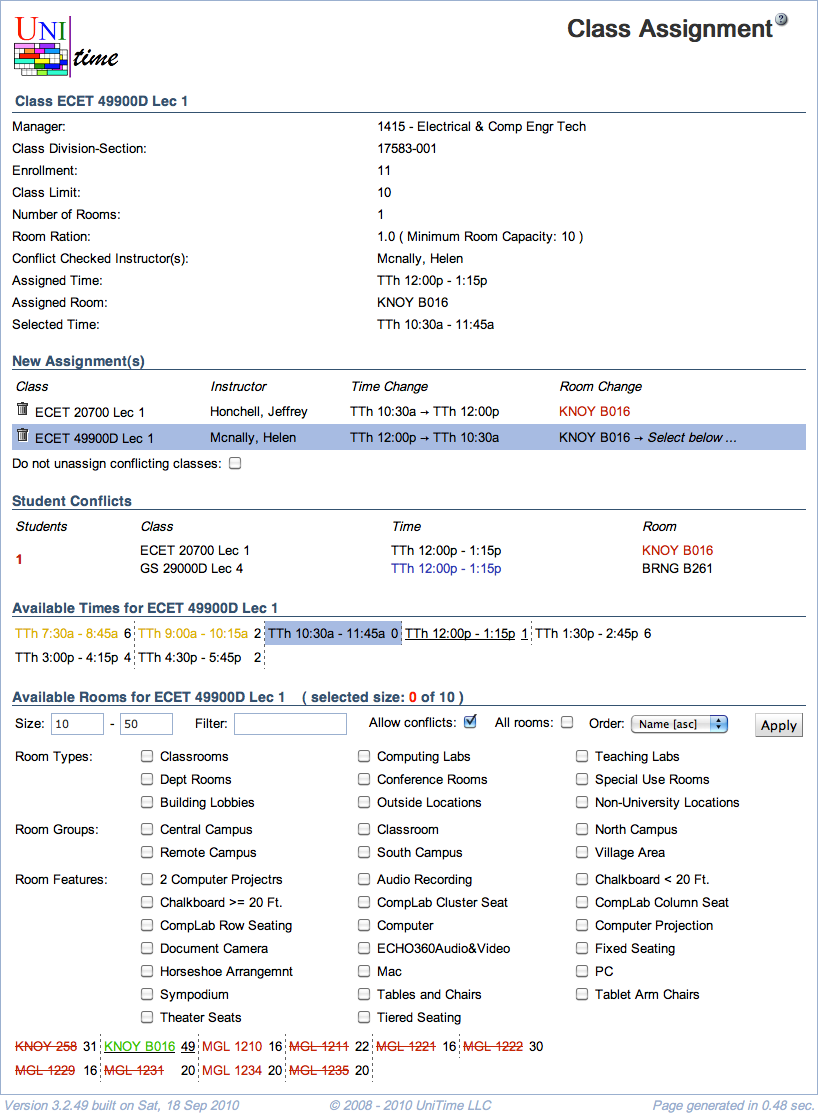
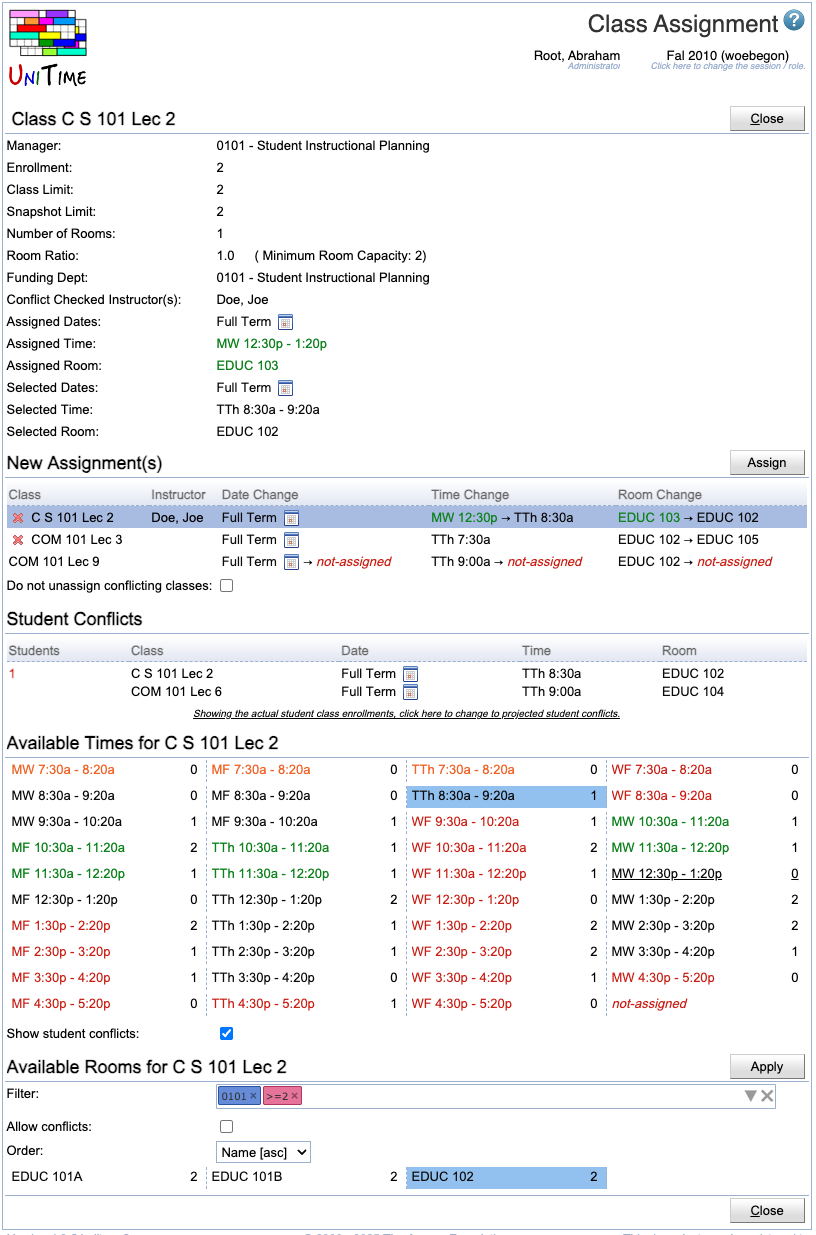
Class Assignment
- new screenshots, new fields, text cleanup

Changed region(s): [[0.0, 0.0, 1.0, 1.0], [0.6127, 0.1828, 0.674, 0.2133]]

diff --git a/class-assignment.md b/class-assignment.md
@@ -6,7 +6,7 @@ title: Class Assignment
 
 ## Screen Description
 
-The Class Assignment screen provides interface for making changes to the current time and room assignment of a class. The changes can be made here  when no timetable is loaded (as opposed to the screens in the Solver section) since this screen only works with available times/rooms and does not provide suggestions that would include suggested changes of the assignment of other classes. The screen is accessible from the [Class Detail](class-detail) screen in case the department for this class has a committed solution (and no other solution is selected or loaded into the solver).
+The Class Assignment screen provides an interface for making changes to the current time and room assignment of a class. The changes can be made here when no timetable is loaded (as opposed to the screens in the Solver section) since this screen only works with available times/rooms and does not provide suggestions that would include suggested changes to the assignment of other classes. The screen is accessible from the [Class Detail](class-detail) screen in case the department for this class has a committed solution (and no other solution is selected or loaded into the solver).
 
 ![Class Assignment](images/class-assignment-1.png){:class='screenshot'}
 
@@ -15,122 +15,141 @@ The Class Assignment screen provides interface for making changes to the current
 The first section of the screen provides an overview of the class-related information.
 
 * **Manager**
-	* Manager responsible for timetabling this class
-	* Editable in the [Multiple Class Setup](multiple-class-setup) screen
+    * Manager responsible for timetabling this class
+    * Editable in the [Multiple Class Setup](multiple-class-setup) screen
 
 * **Enrollment**
-	* Number of expected students
+    * Number of expected students
 
 * **Class Limit**
-	* Number of students that should be able to register for a given class
-	* Editable in the [Multiple Class Setup](multiple-class-setup) screen
+    * Number of students that should be able to register for a given class
+    * Editable in the [Multiple Class Setup](multiple-class-setup) screen
+
+* **Snapshot Limit**
+    * The class limit at the time the [Limit and Projection Snapshot](limit-and-projection-snapshot) was taken.
 
 * **Number Of Rooms**
-	* Number of rooms needed for a class (usually one)
-	* Editable in the [Multiple Class Setup](multiple-class-setup) screen
+    * Number of rooms needed for a class (usually one)
+    * Editable in the [Multiple Class Setup](multiple-class-setup) screen
 
 * **Room Ratio**
-	* The ratio of the required room size to the class limit
-		* Room Ratio = Room Size / Class Limit
-	* In almost all cases, this should be one
-	* Some exceptions to the norm
-		* You need a room for fewer students than the class limit (Room Ratio is less than one)
-		* You need a room for a class with zero limit. In this case, Room Ratio needs to contain the required room size
-	* In parenthesis after the room ratio, you can see the minimum room capacity required for this class (for Class Limit <> 0, it is calculated as Room Size = Room Ratio * Class Limit; if Class Limit = 0, then Room Size = Room Ratio)
-	* Editable in the [Multiple Class Setup](multiple-class-setup) screen
+    * The ratio of the required room size to the class limit
+        * Room Ratio = Room Size / Class Limit
+    * In almost all cases, this should be one
+    * Some exceptions to the norm
+        * You need a room for fewer students than the class limit (Room Ratio is less than one)
+        * You need a room for a class with zero limit. In this case, Room Ratio needs to contain the required room size
+    * In parenthesis after the room ratio, you can see the minimum room capacity required for this class (for Class Limit <> 0, it is calculated as Room Size = Room Ratio * Class Limit; if Class Limit = 0, then Room Size = Room Ratio)
+    * Editable in the [Multiple Class Setup](multiple-class-setup) screen
+
+* **Attendance**
+    * When there are two or more rooms required for the class
+    * **Split Attendance** means that students are expected to split between the two (or more) rooms. That is the total capacity of the assigned room &times; the room ratio must be equal to or greater than the class limit.
+    * **Alternative Attendance** means that all students are expected to be able to fit in any of the assigned rooms. That is, the room capacity of any assigned room &times; the room ratio must be equal to or greater than the class limit.
+    * Editable in the [Multiple Class Setup](multiple-class-setup) screen
+
+* **Funding Dept**
+    * The department providing funding for this class.
+    * This field is not visible by default.  To enable this field, the `unitime.courses.funding_departments_enabled` application property must be set to `true`.
+    * Editable in the [Multiple Class Setup](multiple-class-setup) screen
 
 * **Date Pattern**
-	* Days/weeks throughout the semester during which this class will be taught
-	* You can click on the icon of the calendar to see which dates belong to the selected date pattern
-	* Editable in the [Edit Class](edit-class) screen
+    * Days/weeks throughout the semester during which this class will be taught
+    * You can click on the icon of the calendar to see which dates belong to the selected date pattern
+    * Editable in the [Edit Class](edit-class) screen
 
 * **Conflict Checked Instructor(s)**
-	* Names of instructors for whom conflicts should be avoided (such as teaching two classes in different rooms at the same time)
+    * Names of instructors for whom conflicts should be avoided (such as teaching two classes in different rooms at the same time)
+
+* **Assigned Dates**
+    * Date pattern assigned in the current committed timetable
 
 * **Assigned Time**
-	* Time assigned in the current committed timetable
+    * Time assigned in the current committed timetable
 
 * **Assigned Room**
-	* Room assigned in the current committed timetable
+    * Room assigned in the current committed timetable
+
+* **Selected Dates**
+    * Date pattern selected in the Class Assignment screen
 
 * **Selected Time**
-	* Time selected in the Class Assignment screen
+    * Time selected in the Class Assignment screen
 
 * **Selected Room**
-	* Room selected in the Class Assignment screen
+    * Room selected in the Class Assignment screen
 
 ## New Assignment(s)
 
-A list of draft assignments that have been made through this screen. The new assignments are not executed until the **Assign** button is clicked. To remove an assignment from the list of new assignments, click on the **trash bin** at the beginning of the line.
+A list of draft assignments that have been made through this screen. The new assignments are not executed until the **Assign** button is clicked. To remove an assignment from the list of new assignments, click on the ![Delete](images/icon-delete.png) icon at the beginning of the line.
 
 * **Class**
-	* Class for which the assignment is about to change
-
+    * Class for which the assignment is about to change
 * **Instructor**
-	* Instructor for the class
-
+    * Instructor for the class
+* **Date Change**
+    * Self-explanatory
 * **Time Change**
-	* Self-explanatory
-
+    * Self-explanatory
 * **Room Change**
-	* Self-explanatory
+    * Self-explanatory
 
-* **Do not unassign conflicting classes**
-	* If checked, the conflicting classes stay in the times and rooms where they were and all conflicts need to be resolved manually
+**Do not unassign conflicting classes**
+* If checked, the conflicting classes stay in the times and rooms where they were, and all conflicts need to be resolved manually
+
+When online student scheduling is enabled, a warning ![Warning](images/icon-error.png) icon next to the class name indicates that the class cannot be modified because the offering is locked. Click the icon to unlock the offering first.
 
 ## Student Conflicts
 
 A list of student conflicts caused by new assignments.
 
 * **Students**
-	* Number of students for which a given conflict has occurred
-
+    * Number of students for which a given conflict has occurred
 * **Class**
-	* Classes involved in a conflict
-
+    * Classes involved in a conflict
+* **Date**
+    * Date patterns of classes involved in a conflict (the time from "new assignments" is taken if applicable)
 * **Time**
-	* Times of classes involved in a conflict (the time from "new assignments" is taken if applicable)
-
+    * Times of classes involved in a conflict (the time from "new assignments" is taken if applicable)
 * **Room**
-	* Rooms of classes involved in a conflict (the room from "new assignments" is taken if applicable)
+    * Rooms of classes involved in a conflict (the room from "new assignments" is taken if applicable)
+
+By default, when students are already enrolled, the table displays conflicts based on the current student class enrollments. Otherwise, it would show conflicts based on the student sectioning of the saved &amp; committed solution. The current display is indicated by the text at the bottom of the table; clicking the text will switch between the two options:
+* *Showing the actual student class enrollments, click here to change to projected student conflicts.*
+* *Showing projected student conflicts, click here to change to the actual class enrollments.*
+
+## Available Dates
+
+When the class is using a date pattern of the *Pattern Set* type (there is a choice of a date pattern, e.g., a week selection for a *1x* date pattern), one of the available date patterns can be selected in this table.
+
+![Class Assignment](images/class-assignment-3.png){:class='screenshot'}
 
 ## Available Times
 
-A list of times available for the class that meet the restrictions on required time patterns. Time preferences are color coded in the text color of the times. To select a new time assignment for a class, click on the time.
+A list of times available for the class that meet the restrictions on required time patterns. Time preferences are color-coded in the text color of the times. To select a new time assignment for a class, click on the time. Select *not-assigned*{:style='color:red;'} to unassign the class.
+
+When **Show student conflicts** is checked, the number following the time indicates how many of the students currently enrolled in the class would have a time conflict if the class is placed at the given time.
 
 ## Available Rooms
 
-A list of available rooms for the class. This section is displayed only when time for a class has been selected. "( selected size: X of Y )" next to the section header means that the rooms selected so far have a total of X seats available while the minimum required room capacity is Y.
-
-* **Size**
-	* Only rooms with room capacity in this range will be displayed
+A list of available rooms for the class. This section is displayed only when the time for a class has been selected.
 
 * **Filter**
-	* Enter e.g. a building abbreviation to see only available rooms in a given building
-	* Semicolon can be used as logical or. For instance, **a,b;c** will display all rooms containing both **a** and **b** in their names or containing **c** in their names.
-
+    * Only rooms meeting the [Room Filter](events-room-filter) are displayed
+    * By default, the filter is prepopulated with the minimal room size (based on the class limit and the room ratio), and the managing department of the class
 * **Allow conflicts**
-	* Include rooms that are already used for an examination
-	* Such rooms are displayed in red
-	* If such room is selected, the New Assignment(s) section of this screen will have a new line with the examination that got unassigned (you can click on that line to find time/room assignment for that examination)
-
+    * Include rooms that are already being used
+    * Such rooms are displayed in <span>red and stroked through</span>{:style='color:red;text-decoration:line-through;'}
+    * The conflicting class is listed at the bottom of the mouse-over dialog
 * **All rooms**
-	* Allow also rooms from other departments (ignore room sharing)
-
+    * Allow also rooms from other departments (ignore room sharing)
 * **Order**
-	* Select order of the rooms displayed in this section
-
-* **Room Types**
-	* Limit displayed rooms by room type
-
-* **Room Groups**
-	* Limit displayed rooms by room group
-
-* **Room Features**
-	* Limit displayed rooms by room feature
+    * Select the order of the rooms displayed in this section
 
 Click **Apply** to apply changes to the list of rooms.
 
 Click on a room from the list of available rooms to tentatively assign it to the class (and add the assignment to the New Assignment(s) section where it can be confirmed or removed).
 
+When multiple rooms are required, click on all the rooms that are to be assigned to the class. The *(selected size: X of Y)* next to the section header indicates that the rooms selected so far have a total of X seats available while the minimum required room capacity is Y.
 
+![Class Assignment](images/class-assignment-2.png){:class='screenshot'}

diff --git a/university-timetabling-application.md b/university-timetabling-application.md
@@ -26,7 +26,7 @@ title: UniTime Online Help
 		* [Edit Scheduling Subpart](edit-scheduling-subpart)
 	* [Class Detail](class-detail)
 		* [Edit Class](edit-class)
-* [Class Assignment](class-assignment)
+		* [Class Assignment](class-assignment)
 * [Classes](classes)
 * [Curricula](curricula)
 	* [Curriculum Detail](curriculum-detail)
@@ -43,10 +43,10 @@ title: UniTime Online Help
 		* [Instructor Assignment Preferences](instructor-assignment-preferences)
 	* [Manage Instructor List](manage-instructor-list)
 	* [Add Instructor](add-instructor)
-	* [Instructor Attributes](instructor-attributes)
-		* [Add Instructor Attribute](add-instructor-attribute)
-		* [Edit Instructor Attribute](edit-instructor-attribute)
-	* [Instructor Survey](instructor-survey)
+* [Instructor Attributes](instructor-attributes)
+	* [Add Instructor Attribute](add-instructor-attribute)
+	* [Edit Instructor Attribute](edit-instructor-attribute)
+* [Instructor Survey](instructor-survey)
 * [Rooms](rooms)
 	* [Room Detail](room-detail)
 		* [Edit Room](edit-room)
@@ -65,6 +65,7 @@ title: UniTime Online Help
 	* [Add Reservation](add-reservation)
 	* [Edit Reservation](edit-reservation)
 	* [Class Assignments](class-assignments)
+* [Class Assignments](class-assignments)
 
 ### Course Timetabling
 * [Saved Timetables](timetables)
